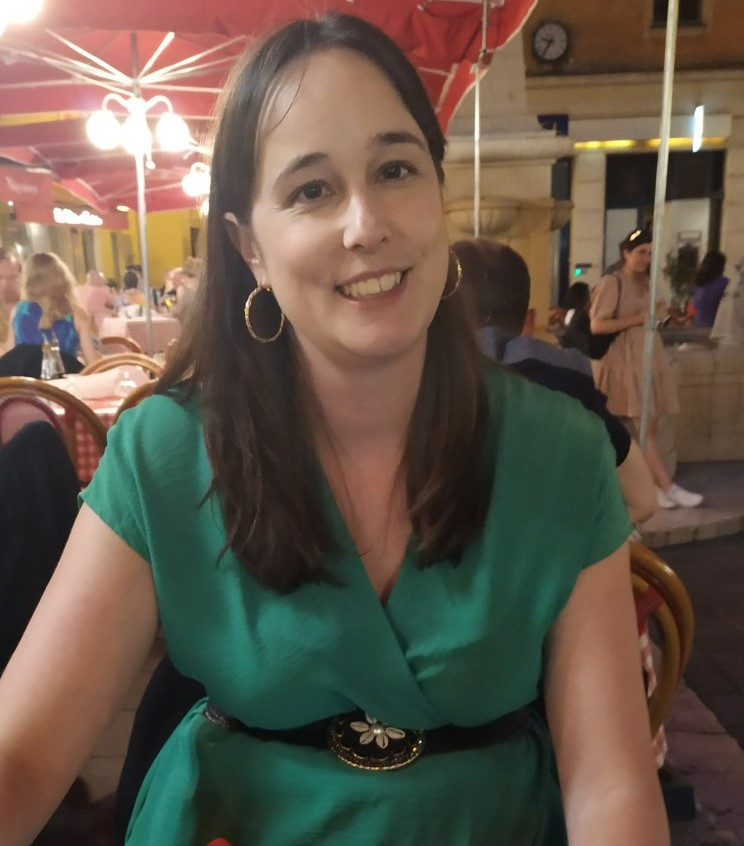
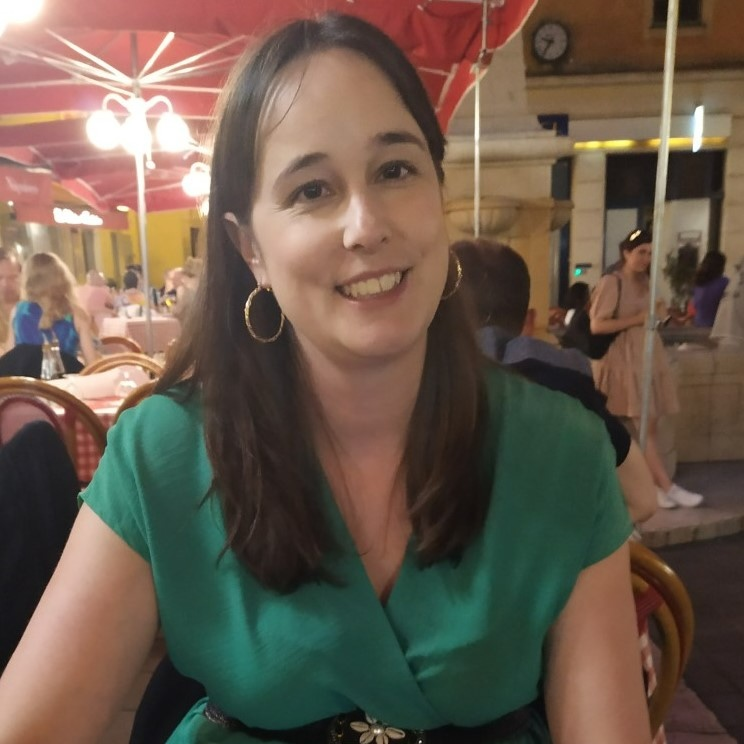
Crop image and refactor testis

diff --git a/index.html b/index.html
@@ -13,7 +13,6 @@
 
 <body>
     <section class="top-nav">
-
         <img src="img/flag-nl.svg" alt="flag netherlands" width="50" height="60">
 
         <input id="menu-toggle" type="checkbox" />
@@ -32,89 +31,97 @@
         <div class="title" id="title"></div>
         <h1>Nederlands op kantoor</h1>
         <p class="label">helping professionals boost their Dutch language skills</p>
-        <p>
+        <div>
             <a href="https://www.buymeacoffee.com/businessdutch/extras" class="button">GO TO COURSES</a>
-        </p>
+        </div>
 
     </div>
-    <div class="container">
-        <div class="container__bio">
-            <div class="container__space">
-                <img src="./img/me.jpg">
-            </div>
-            <div class="container__text">
-                <p class="label">
-                    Over mij
-                </p>
-                <h2>
-                    Docent zakelijk Nederlands met meer dan 10 jaar ervaring
-                </h2>
-                <p>
-                    Ik heet Tine Vermoere en ik ben docent zakelijk Nederlands. Al meer dan 10 jaar geef ik met veel
-                    passie les aan professionals van verschillende bedrijven. Taal zit in mijn DNA. Ik studeerde
-                    Germaanse Taal- en Letterkunde en leerde meerdere talen waaronder Frans, Duits, Spaans en Turks. Ik
-                    heb <b>2 e-learnings</b> ontworpen voor studenten met een <b>intermediair niveau.</b> In het totaal
-                    schreef ik
-                    hiervoor <b>meer dan 250 oefeningen op zakelijke woordenschat en grammatica!</b> Een voorsmaakje van
-                    de
-                    inhoud en de stijl zie je in mijn YouTube filmpjes.
-                </p>
-                <p>Naast het lesgeven werk ik deeltijds als opleidingsverantwoordelijke bij een multinational. Mijn
-                    eigen bedrijfservaring is een grote meerwaarde tijdens mijn lessen. Sinds 2007 woon en werk ik in
-                    Berlijn. In mijn vrije tijd ga ik heel graag naar concerten. Ik zing ook als soprano in een koor. Ik
-                    hou veel van reizen en nieuwe mensen ontmoeten. Maar bovenal ben ik mama van Finn, het allerliefste
-                    jongetje ter wereld.</p>
-            </div>
-        </div>
+
+    <div class="container__bio">
         <p class="label">
-            Go to courses
+            Over mij
         </p>
-        <div class="container__bio">
-            <a href="https://www.buymeacoffee.com/businessdutch/extras">
-                <div class="container__card">
-                    <img src="./img/b1_b2_class_29.jpg">
-                    <p><b>zakelijk Nederlands B1+/B2 e-learnings woordenschat en grammatica</b></p>
-                </div>
-            </a>
-            <a href="https://www.buymeacoffee.com/businessdutch/extras">
-                <div class="container__card">
-                    <img src="./img/b1_b2_class_19.jpg">
-                    <p><b>zakelijk Nederlands B1+/B2 e-learning woordenschat</b></p>
-                </div>
-            </a>
-            <a href="https://www.buymeacoffee.com/businessdutch/extras">
-                <div class="container__card">
-                    <img src="./img/b1_b2_class_19_grammar.jpg">
-                    <p><b>zakelijk Nederlands B1+/B2 e-learning grammatica</b></p>
-                </div>
-            </a>
+        <div class="container__space">
+            <img src="./img/me.jpg">
+            <h2>
+                Docent zakelijk Nederlands met meer dan 10 jaar ervaring
+            </h2>
         </div>
-        <p class="label">
-            Testimonials
+        <p>
+            Ik heet Tine Vermoere en ik ben docent zakelijk Nederlands. Al meer dan 10 jaar geef ik met veel
+            passie les aan professionals van verschillende bedrijven. Taal zit in mijn DNA. Ik studeerde
+            Germaanse Taal- en Letterkunde en leerde meerdere talen waaronder Frans, Duits, Spaans en Turks. Ik
+            heb <span>2 e-learnings</span> ontworpen voor studenten met een <span>intermediair niveau.</span> In het
+            totaal
+            schreef ik
+            hiervoor <span>meer dan 250 oefeningen op zakelijke woordenschat en grammatica!</span> Een voorsmaakje van
+            de
+            inhoud en de stijl zie je in mijn YouTube filmpjes.
+            <br>
+            <br>
+            Naast het lesgeven werk ik deeltijds als opleidingsverantwoordelijke bij een multinational. Mijn
+            eigen bedrijfservaring is een grote meerwaarde tijdens mijn lessen. Sinds 2007 woon en werk ik in
+            Berlijn. In mijn vrije tijd ga ik heel graag naar concerten. Ik zing ook als soprano in een koor. Ik
+            hou veel van reizen en nieuwe mensen ontmoeten. Maar bovenal ben ik mama van Finn, het allerliefste
+            jongetje ter wereld.
         </p>
-        <div class="container__bio">
-            <div class="container__testi">
-                <i class="label"> <i>
-                        Tine is een professionele docent Nederlands. Tijdens onze lessen toonde ze een hoge mate van
-                        betrokkenheid en professionaliteit. Ik heb geleerd hoe ik de Nederlandse taal voor
-                        werkdoeleinden kan gebruiken. Ze is een positief en vriendelijk persoon, met een geweldige
-                        houding ten opzichte van lesgeven.
-                    </i></i>
-                <p><b>Aleksandra, commercial management specialist</b></p>
+    </div>
+    <p class="label">
+        Go to courses
+    </p>
+    <div class="container__courses">
+        <a href="https://www.buymeacoffee.com/businessdutch/extras">
+            <div class="container__card">
+                <img src="./img/b1_b2_class_29.jpg">
+                <p><b>zakelijk Nederlands B1+/B2 e-learnings woordenschat en grammatica</b></p>
             </div>
-            <div class="container__testi">
-                <i class="label"> <i>Tine is zeer professioneel en serieus in haar werk. Ze neemt de tijd om goed uit te
-                        leggen en
-                        nuttige tips te geven. Ze heeft veel geduld met haar leerlingen en past zich aan ieders tempo
-                        aan. Tine is spontaan, enthousiast en weet een goede sfeer te creëren. </i></i>
-                <p><b>Eni, recruiter</b></p>
+        </a>
+        <a href="https://www.buymeacoffee.com/businessdutch/extras">
+            <div class="container__card">
+                <img src="./img/b1_b2_class_19.jpg">
+                <p><b>zakelijk Nederlands B1+/B2 e-learning woordenschat</b></p>
             </div>
-            <div class="container__testi">
-                <i class="label"> <i>Ik heb een hele fijne cursus gehad bij Tine. Ze is een zeer goede lerares en mijn
-                        niveau van
-                        Nederlands verbetert veel met haar. </i></i>
-                <p><b>Mahir, professor Egyptologie</b></p>
+        </a>
+        <a href="https://www.buymeacoffee.com/businessdutch/extras">
+            <div class="container__card">
+                <img src="./img/b1_b2_class_19_grammar.jpg">
+                <p><b>zakelijk Nederlands B1+/B2 e-learning grammatica</b></p>
             </div>
+        </a>
+    </div>
+    <p class="label">
+        Testimonials
+    </p>
+    <div class="container__courses">
+
+        <div class="container__testi">
+            <cite>
+                Tine is een professionele docent Nederlands. Tijdens onze lessen toonde ze een hoge mate van
+                betrokkenheid en professionaliteit. Ik heb geleerd hoe ik de Nederlandse taal voor
+                werkdoeleinden kan gebruiken. Ze is een positief en vriendelijk persoon, met een geweldige
+                houding ten opzichte van lesgeven.
+                <br> <br>
+                <b>Aleksandra, commercial management specialist</b>
+            </cite>
+        </div>
+        <div class="container__testi">
+            <cite>Tine is zeer professioneel en serieus in haar werk. Ze neemt de tijd om goed uit te
+                leggen en
+                nuttige tips te geven. Ze heeft veel geduld met haar leerlingen en past zich aan ieders tempo
+                aan. Tine is spontaan, enthousiast en weet een goede sfeer te creëren.
+                <br> <br>
+                <b>Eni, recruiter</b>
+            </cite>
+        </div>
+        <div class="container__testi">
+            <cite>Ik heb een hele fijne cursus gehad bij Tine. Ze is een zeer goede lerares en mijn
+                niveau van
+                Nederlands verbetert veel met haar.
+
+                <br> <br>
+
+                <b>Mahir, professor Egyptologie</b>
+            </cite>
         </div>
     </div>
 

diff --git a/css/container.css b/css/container.css
@@ -6,6 +6,7 @@ footer {
     background: var(--primary);
     color: var(--white);
 }
+ 
 .headerb {
     display: flex;
     flex-direction: column;
@@ -15,49 +16,56 @@ footer {
     padding-bottom: 4rem;
 }
 
-.container {
-    margin: auto;
-    max-width: 1120px;
-}
 
-.container__bio > a, .container__testi{
+.container__courses>a,
+.container__testi {
     width: 31%;
 }
+
 .container__card>img {
     width: 100%;
     border-radius: 8px;
 }
 
-.container__text {
-    width: 50%;
-}
-
 .container__space {
-    width: 40%;
+    display: flex;
+    gap: 24px;
 }
 
 .container__space>img {
     border-radius: 50%;
-    height: 240px;
-    width: 240px;
+    height: 140px;
+    width: 140px;
 }
 
 .container__bio {
     padding: 3rem;
-    display: flex;
-    flex-wrap:wrap;
-    gap: 24px;
-    border-bottom: 1px solid var(--primary);
+    width: 80%;
+    margin: auto;
 }
 
+.container__courses {
+    padding: 3rem;
+    display: flex;
+    gap: 24px;
+    border-top: 1px solid var(--primary);
+}
+span {
+    background: var(--primary-variant);
+}
+
+cite{
+    color: var(--secondary);
+    font-size: 12px;
+    font-style: italic;
+}
 @media (max-width: 676px) {
     .container {
         width: calc(100%);
         margin: auto;
     }
 
-    .container__space,
-    .container__text {
+    .container__bio {
         width: 100%;
     }
 }

diff --git a/css/style.css b/css/style.css
@@ -1,5 +1,6 @@
 :root {
     --primary: #043400;
+    --primary-variant: #e8f3e7;
     --secondary: #5E5E5E;
     --background: #f6f7ff;
     --text: #0B0C0E;
@@ -20,9 +21,7 @@ body {
     margin: auto;
     background: var(--white);
     color: var(--text);
-    height: 100%;
-    display: flex;
-    flex-direction: column;
+    max-width: 1120px;
 }
 
 h1 {
@@ -77,7 +76,6 @@ p {
     line-height: normal;
     color: var(--secondary);
 }
- 
 
 button,
 .button {
@@ -100,13 +98,6 @@ button,
 a {
     text-decoration: none;
     color: var(--surface-color);
-}
-
-footer {
-    font-family: 'Inter';
-    font-style: normal;
-    font-weight: 400;
-    flex-shrink: 0;
 }
 
 @media (max-width: 676px) {
